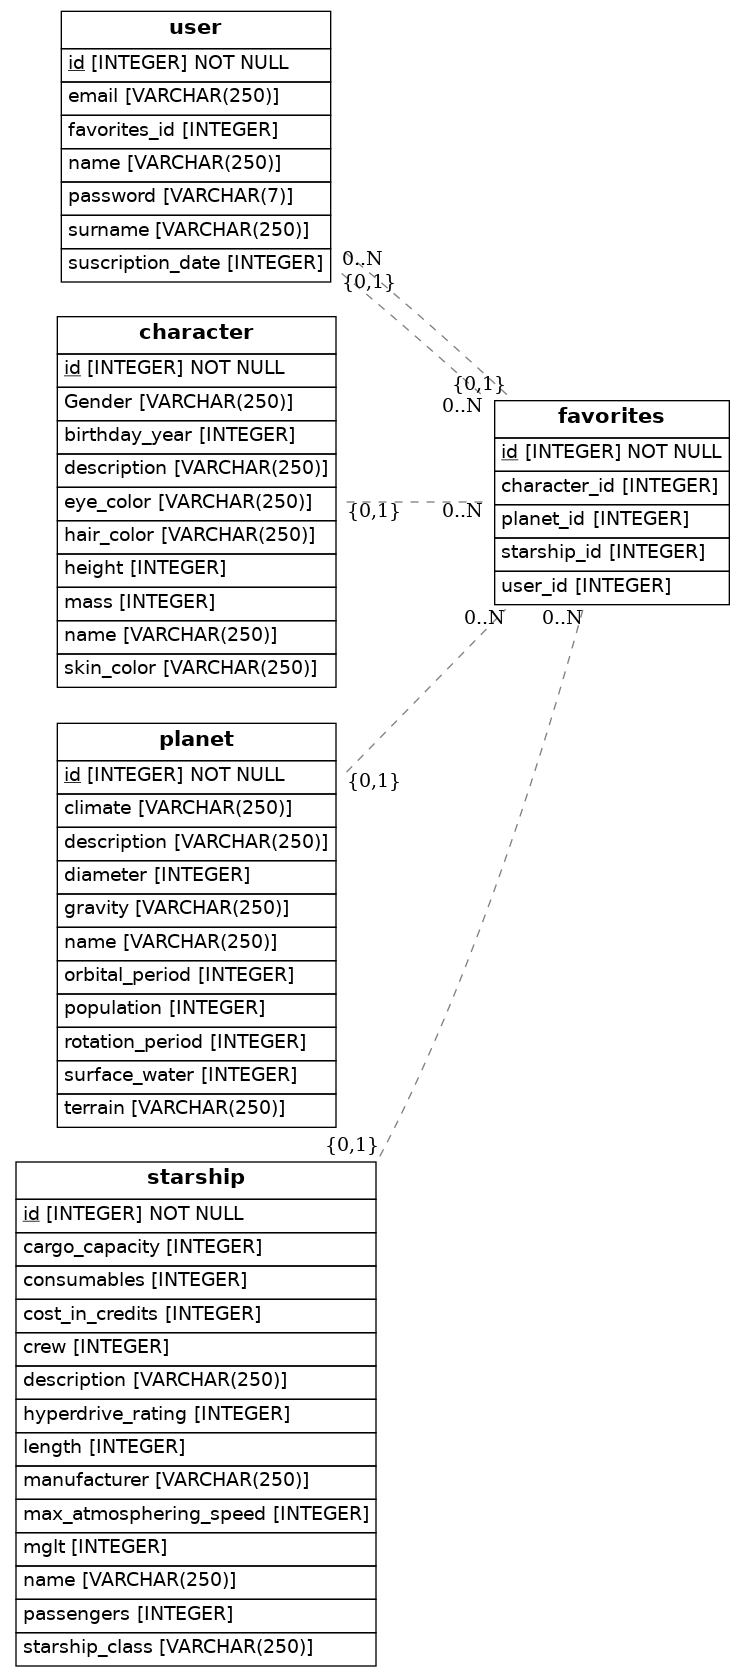
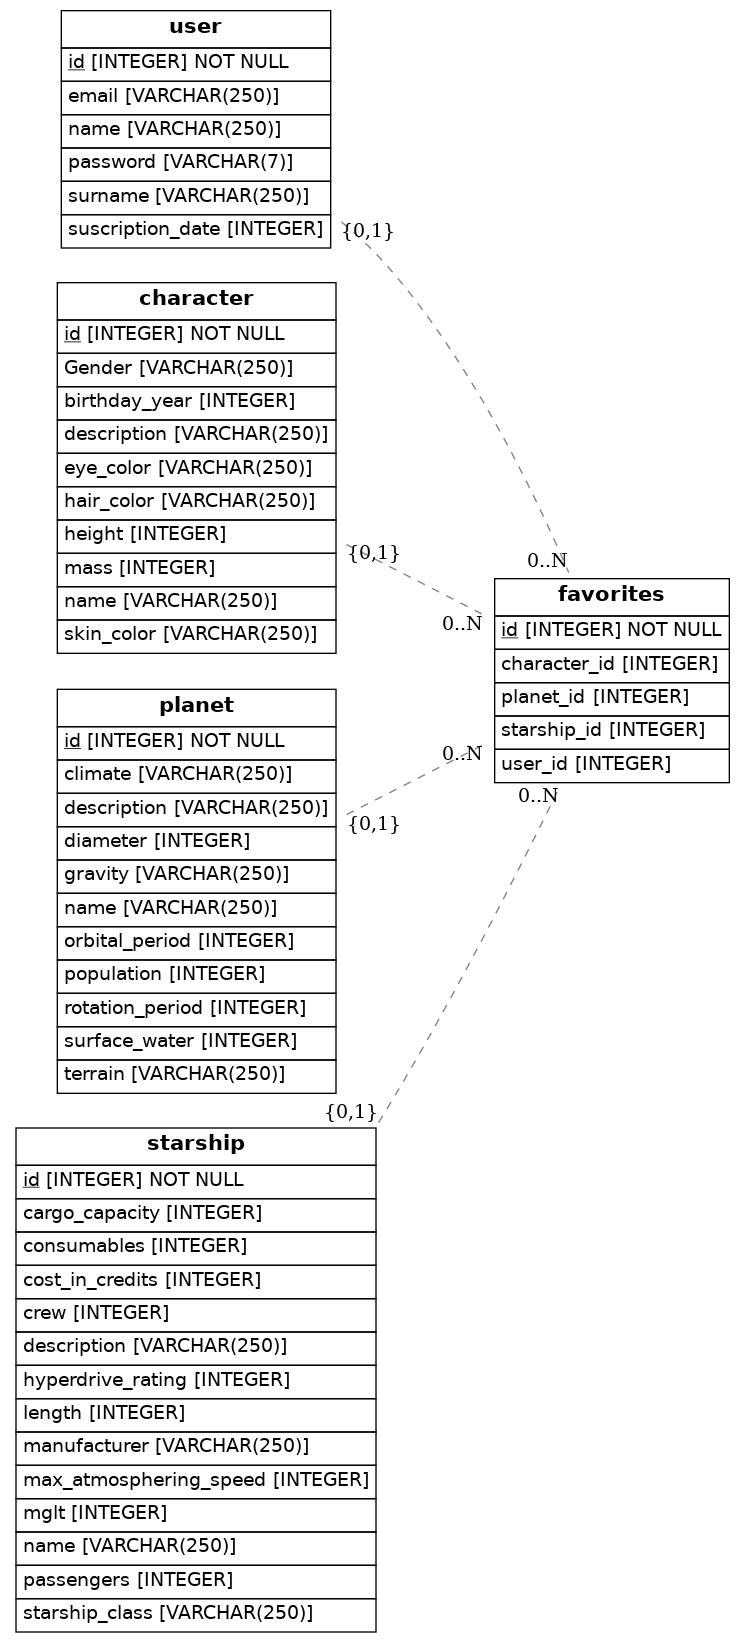
correccion models

Changed region(s): [[0.0309, 0.0, 0.5248, 0.9933], [0.5866, 0.2173, 0.9879, 0.4967]]

diff --git a/src/models.py b/src/models.py
@@ -15,21 +15,21 @@ class Person(Base):
     password = Column(String(7), nullable = True)
     email = Column(String(250), nullable = True)
     suscription_date = Column(Integer, nullable = True)
-    favorites_id = Column(Integer, ForeignKey("favorites.id"))
-    favorites = relationship("Favorites")
+    # favorites_id = Column(Integer, ForeignKey("favorites.id"))
+    # favorites = relationship("Favorites")
 
 
 class Favorites(Base):
     __tablename__ = "favorites"
     id = Column(Integer, primary_key = True)
     user_id = Column(Integer, ForeignKey("user.id"))
-    user = relationship(Person)
+    user = relationship("Person")
     character_id = Column(Integer, ForeignKey("character.id"))
     character = relationship("Character")
     planet_id = Column(Integer, ForeignKey("planet.id"))
     planet = relationship("Planet")
     starship_id = Column(Integer, ForeignKey("starship.id"))
-    starship = relationship("starship")
+    starship = relationship("Starship")
 
 class Character(Base):
     __tablename__ = 'character'
